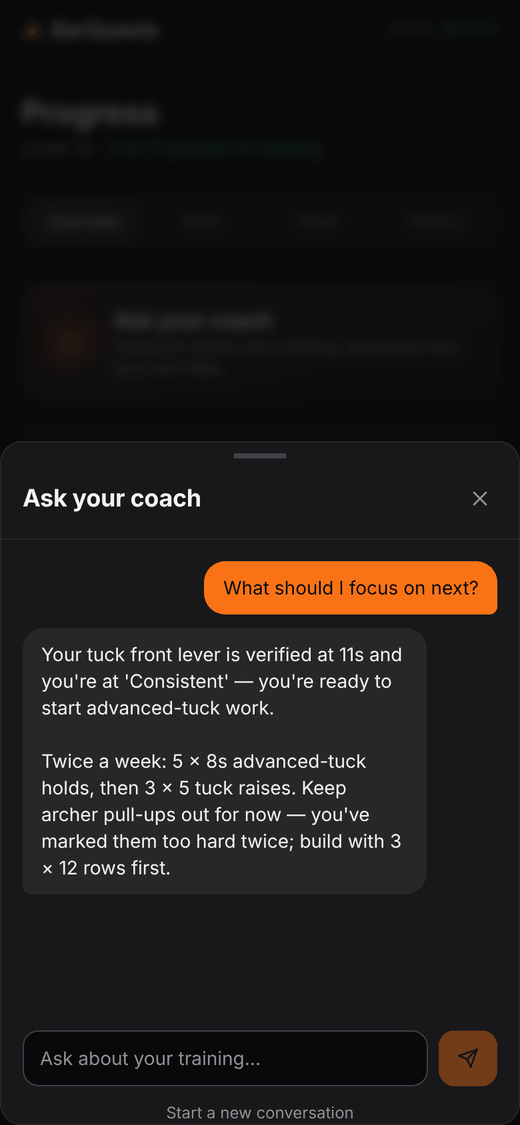
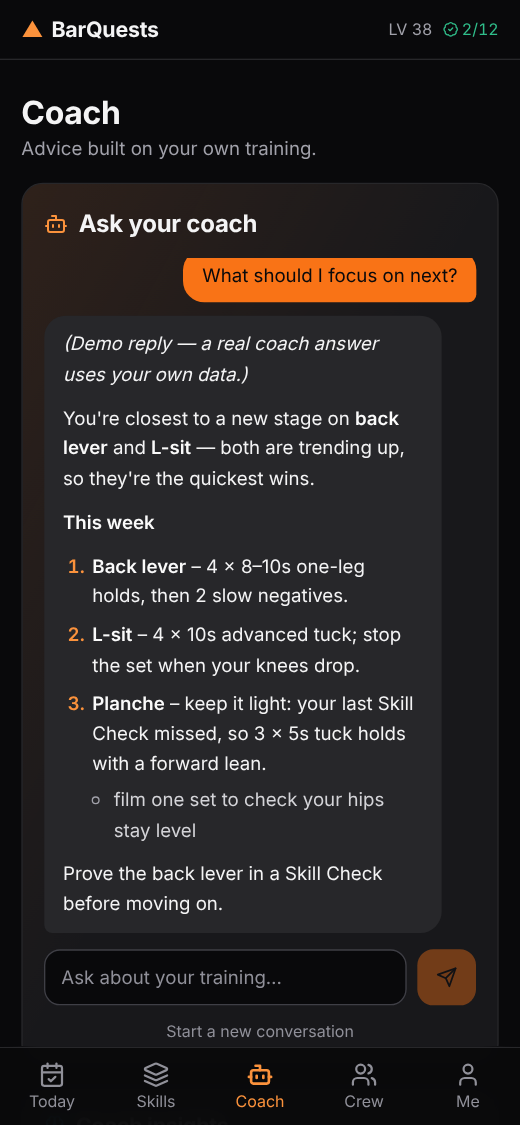
Coach chat inline on the Coach tab; canned AI replies in demo mode
The chat is now part of the Coach page instead of a pop-up. The
conversation scrolls inside its own panel, and only after you ask, so
reopening the page with a saved conversation doesn't jump.

In demo mode the four AI features answer with canned, labelled demo
replies (a formatted coach answer, a tip, a review with a suggestion for a
real exercise in the session, plan notes for the real days), so the AI
screens can be tried and screenshotted without a login or OpenRouter key.
Production builds drop it (checked: no demo text in the build output).
README coach-chat screenshot retaken from it.

Claude-Session: https://claude.ai/code/session_012SCubULrqSSyhFrGLh3gGd

diff --git a/src/components/CoachChat.tsx b/src/components/CoachChat.tsx
@@ -1,7 +1,6 @@
 "use client";
 
 import { useEffect, useRef, useState } from "react";
-import Modal from "@/components/Modal";
 import { useAuth } from "@/context/AuthContext";
 import { useLanguage } from "@/context/LanguageContext";
 import { buildCoachContext } from "@/lib/coachContext";
@@ -27,7 +26,9 @@ const SUGGESTIONS = [
 // Ask the AI coach about your own training. The conversation stays in this
 // browser tab (session storage), not on a server; the coach sees training
 // data only (see lib/coachContext.ts).
-export default function CoachChat({ open, onClose }: { open: boolean; onClose: () => void }) {
+// Shown inline on the Coach tab: the conversation scrolls inside its own
+// panel, so the page doesn't jump around as answers arrive.
+export default function CoachChat() {
   const { userDoc } = useAuth();
   const { tx, locale } = useLanguage();
   const [messages, setMessages] = useState<Msg[]>([]);
@@ -35,7 +36,8 @@ export default function CoachChat({ open, onClose }: { open: boolean; onClose: (
   const [busy, setBusy] = useState(false);
   const [error, setError] = useState<string | null>(null);
   const [recent, setRecent] = useState<SessionRecord[]>([]);
-  const endRef = useRef<HTMLDivElement>(null);
+  const listRef = useRef<HTMLDivElement>(null);
+  const scrollOnUpdate = useRef(false); // only after asking, not on load
 
   useEffect(() => {
     try {
@@ -52,18 +54,20 @@ export default function CoachChat({ open, onClose }: { open: boolean; onClose: (
     } catch {
       // storage unavailable — the chat still works for this view
     }
-    endRef.current?.scrollIntoView({ behavior: "smooth", block: "end" });
-  }, [messages]);
+    if (scrollOnUpdate.current && listRef.current) {
+      listRef.current.scrollTo({ top: listRef.current.scrollHeight, behavior: "smooth" });
+    }
+  }, [messages, busy]);
 
   // recent sessions give the coach something concrete to talk about
   useEffect(() => {
-    if (!open || !userDoc) return;
+    if (!userDoc) return;
     const to = new Date();
     const from = new Date(to.getTime() - 30 * 86400000);
     fetchSessionsBetween(userDoc.uid, from.toISOString(), to.toISOString())
       .then(setRecent)
       .catch(() => setRecent([]));
-  }, [open, userDoc]);
+  }, [userDoc]);
 
   // An unanswered question goes back into the input instead of staying in
   // the conversation, so retrying doesn't leave the same question twice.
@@ -75,6 +79,7 @@ export default function CoachChat({ open, onClose }: { open: boolean; onClose: (
   const ask = async (question: string) => {
     const q = question.trim().slice(0, 600);
     if (!q || busy || !userDoc) return;
+    scrollOnUpdate.current = true;
     const next: Msg[] = [...messages, { role: "user", content: q }];
     setMessages(next);
     setInput("");
@@ -102,8 +107,11 @@ export default function CoachChat({ open, onClose }: { open: boolean; onClose: (
   };
 
   return (
-    <Modal open={open} onClose={onClose} title={tx("Ask your coach")}>
-      <div className="flex flex-col gap-3 min-h-[50vh]">
+    <section className="panel p-4 border-orange-500/40 bg-gradient-to-br from-orange-500/10 via-transparent to-transparent">
+      <h2 className="heading text-lg text-zinc-100 flex items-center gap-2 mb-3">
+        <Bot size={18} className="text-orange-400" /> {tx("Ask your coach")}
+      </h2>
+      <div className="flex flex-col gap-3">
         {messages.length === 0 && (
           <div className="space-y-3">
             <p className="text-sm text-zinc-400 flex items-start gap-2">
@@ -124,7 +132,7 @@ export default function CoachChat({ open, onClose }: { open: boolean; onClose: (
           </div>
         )}
 
-        <div className="space-y-2.5" aria-live="polite">
+        <div ref={listRef} className="space-y-2.5 max-h-[60vh] overflow-y-auto -mx-1 px-1" aria-live="polite">
           {messages.map((m, i) => (
             <div key={i} className={`flex ${m.role === "user" ? "justify-end" : "justify-start"}`}>
               <div
@@ -146,7 +154,6 @@ export default function CoachChat({ open, onClose }: { open: boolean; onClose: (
             </div>
           )}
           {error && <div className="text-sm text-orange-300">{error}</div>}
-          <div ref={endRef} />
         </div>
 
         <form
@@ -154,7 +161,7 @@ export default function CoachChat({ open, onClose }: { open: boolean; onClose: (
             e.preventDefault();
             ask(input);
           }}
-          className="mt-auto flex gap-2 sticky bottom-0 bg-zinc-900 pt-2"
+          className="flex gap-2"
         >
           <input
             value={input}
@@ -179,6 +186,6 @@ export default function CoachChat({ open, onClose }: { open: boolean; onClose: (
           </button>
         )}
       </div>
-    </Modal>
+    </section>
   );
 }

diff --git a/src/lib/demoMode/ai.ts b/src/lib/demoMode/ai.ts
@@ -1,0 +1,68 @@
+// Canned AI answers for demo mode (see flag.ts), so the AI screens can be
+// tried and screenshotted without a login or an OpenRouter key. Only ever
+// loaded on the development server; each reply says it's a demo.
+
+type Body = Record<string, unknown>;
+const json = (data: unknown) => new Response(JSON.stringify(data), { status: 200, headers: { "Content-Type": "application/json" } });
+const it = (b: Body) => b.locale === "it";
+
+const CHAT = {
+  en: `*(Demo reply — a real coach answer uses your own data.)*
+
+You're closest to a new stage on **back lever** and **L-sit** — both are trending up, so they're the quickest wins.
+
+**This week**
+1. **Back lever** – 4 × 8–10s one-leg holds, then 2 slow negatives.
+2. **L-sit** – 4 × 10s advanced tuck; stop the set when your knees drop.
+3. **Planche** – keep it light: your last Skill Check missed, so 3 × 5s tuck holds with a forward lean.
+   - film one set to check your hips stay level
+
+Prove the back lever in a Skill Check before moving on.`,
+  it: `*(Risposta demo — una vera risposta del coach usa i tuoi dati.)*
+
+Sei più vicino a un nuovo stadio su **back lever** e **L-sit** — sono entrambi in crescita, quindi sono le vittorie più rapide.
+
+**Questa settimana**
+1. **Back lever** – 4 × tenute di 8–10s a una gamba, poi 2 negative lente.
+2. **L-sit** – 4 × 10s in tuck avanzato; chiudi la serie quando le ginocchia scendono.
+3. **Planche** – leggera: l'ultimo Skill Check non è andato, quindi 3 × tenute di 5s in tuck con inclinazione in avanti.
+   - filma una serie per controllare che le anche restino in linea
+
+Dimostra il back lever in uno Skill Check prima di andare avanti.`,
+};
+
+export function demoAiResponse(url: string, body: Body): Response {
+  if (url.endsWith("/coach-chat")) return json({ configured: true, reply: CHAT[it(body) ? "it" : "en"] });
+
+  if (url.endsWith("/exercise-tip")) {
+    return json({
+      configured: true,
+      tip: "Demo tip: brace your core and squeeze your glutes before each rep, so your body moves as one piece.",
+      mistake: "Demo: letting the hips sag or pike as you tire — end the set there.",
+    });
+  }
+
+  if (url.endsWith("/plan-review")) {
+    const exercises = (body.exercises as { key: string; name: string; detail: string; setTitle: string }[]) ?? [];
+    const target = exercises.find((e) => !/warm|final|finisher/i.test(e.setTitle)) ?? exercises[0];
+    return json({
+      configured: true,
+      score: 8,
+      summary: "Demo review: a well-balanced session for your level — skill work first while you're fresh, then accessory volume.",
+      suggestions: target
+        ? [{ key: target.key, suggestedName: target.name, suggestedDetail: "3 x 4-6 reps, slow descent", reason: "Demo: slower negatives build the strength this stage needs." }]
+        : [],
+    });
+  }
+
+  if (url.endsWith("/plan-coach")) {
+    const days = (body.days as { dateISO: string }[]) ?? [];
+    return json({
+      configured: true,
+      intro: "Demo notes: three skill days with a rest day between the hardest ones.",
+      notes: Object.fromEntries(days.map((d, i) => [d.dateISO, i % 2 ? "Demo: keep it crisp — stop sets before form breaks." : "Demo: hardest skill first, while you're fresh."])),
+    });
+  }
+
+  return new Response(JSON.stringify({ error: "Not available in demo mode." }), { status: 404 });
+}

diff --git a/src/app/coach/page.tsx b/src/app/coach/page.tsx
@@ -1,6 +1,6 @@
 "use client";
 
-import { useEffect, useState } from "react";
+import { useEffect } from "react";
 import { useRouter } from "next/navigation";
 import Link from "next/link";
 import { useAuth } from "@/context/AuthContext";
@@ -17,7 +17,6 @@ export default function CoachPage() {
   const { user, userDoc, loading } = useAuth();
   const { tx } = useLanguage();
   const router = useRouter();
-  const [chatOpen, setChatOpen] = useState(false);
 
   useEffect(() => {
     if (loading) return;
@@ -57,21 +56,7 @@ export default function CoachPage() {
           <p className="text-sm text-zinc-400">{tx("Advice built on your own training.")}</p>
         </div>
 
-        <button
-          onClick={() => setChatOpen(true)}
-          className="w-full panel p-5 text-left border-orange-500/40 bg-gradient-to-br from-orange-500/10 via-transparent to-transparent hover:border-orange-500 transition-colors"
-        >
-          <span className="flex items-center gap-3">
-            <span className="w-12 h-12 rounded-2xl bg-orange-500/15 flex items-center justify-center shrink-0">
-              <Bot size={22} className="text-orange-400" />
-            </span>
-            <span className="flex-1 min-w-0">
-              <span className="block heading text-lg text-zinc-100">{tx("Ask your coach")}</span>
-              <span className="block text-sm text-zinc-400">{tx("Questions about your training, answered from your own data.")}</span>
-            </span>
-            <ChevronRight size={18} className="text-muted shrink-0" />
-          </span>
-        </button>
+        <CoachChat />
 
         <CoachInsightsCard userDoc={userDoc} />
 
@@ -91,7 +76,6 @@ export default function CoachPage() {
           ))}
         </section>
       </main>
-      <CoachChat open={chatOpen} onClose={() => setChatOpen(false)} />
     </>
   );
 }

diff --git a/src/lib/apiClient.ts b/src/lib/apiClient.ts
@@ -1,9 +1,16 @@
 import { auth } from "./firebase";
+import { DEMO_MODE } from "./demoMode/flag";
 
 // fetch() for the app's own AI routes: attaches the signed-in user's
 // Firebase ID token so the server can check who's asking (see
 // lib/server/aiGuard.ts). getIdToken() refreshes an expired token itself.
 export async function authedFetch(url: string, init: RequestInit = {}): Promise<Response> {
+  // demo mode answers locally; the inline NODE_ENV check drops this from production builds
+  if (process.env.NODE_ENV === "development" && DEMO_MODE) {
+    const { demoAiResponse } = await import("./demoMode/ai");
+    await new Promise((r) => setTimeout(r, 600)); // feel like a request
+    return demoAiResponse(url, typeof init.body === "string" ? JSON.parse(init.body) : {});
+  }
   const headers = new Headers(init.headers);
   const token = await auth.currentUser?.getIdToken().catch(() => undefined);
   if (token) headers.set("Authorization", `Bearer ${token}`);

diff --git a/README.md b/README.md
@@ -301,8 +301,8 @@ npm run build && npm start   # production build
 **Demo mode** (`npm run demo`) signs in a fictional athlete with three weeks of example
 training, friends and Skill Checks, all kept in memory, so you can try every signed-in
 screen without a Firebase project. A "DEMO" tab on the left edge marks it. It only runs on
-the development server: production builds never include it. AI features need a real
-login, so they don't answer in demo mode.
+the development server: production builds never include it. The AI features answer with
+canned, clearly labelled demo replies, so no OpenRouter key is needed either.
 
 On a phone (or any production build) the app can be installed from the browser's
 *Add to Home Screen* / install prompt — it ships a web manifest and a service worker.
